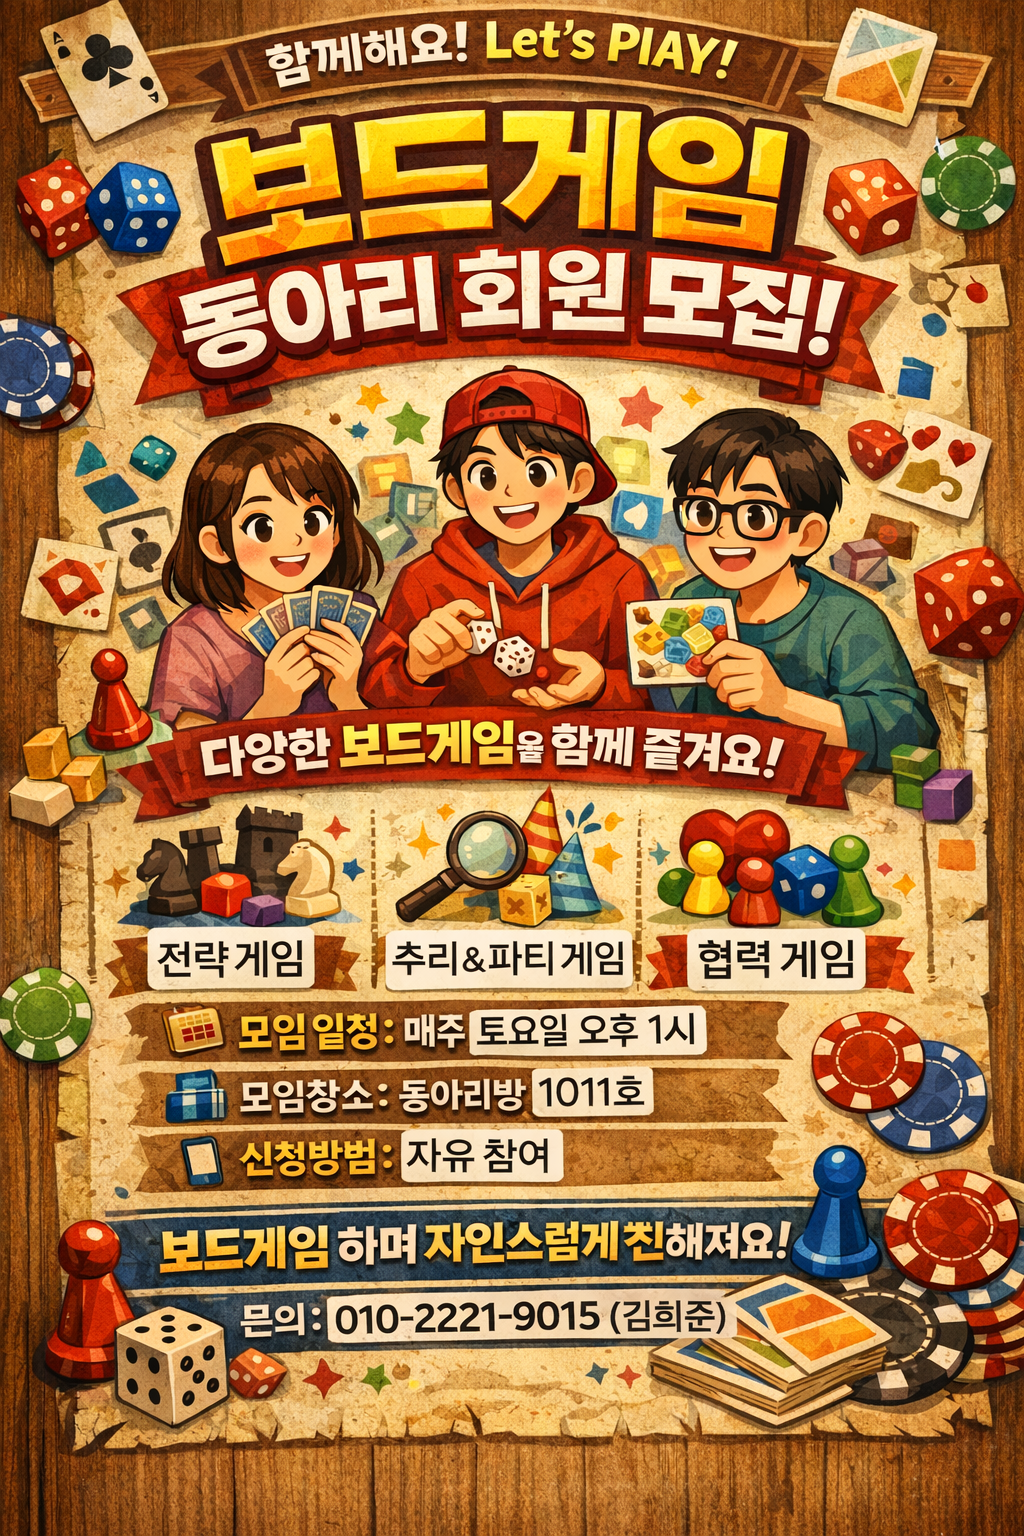
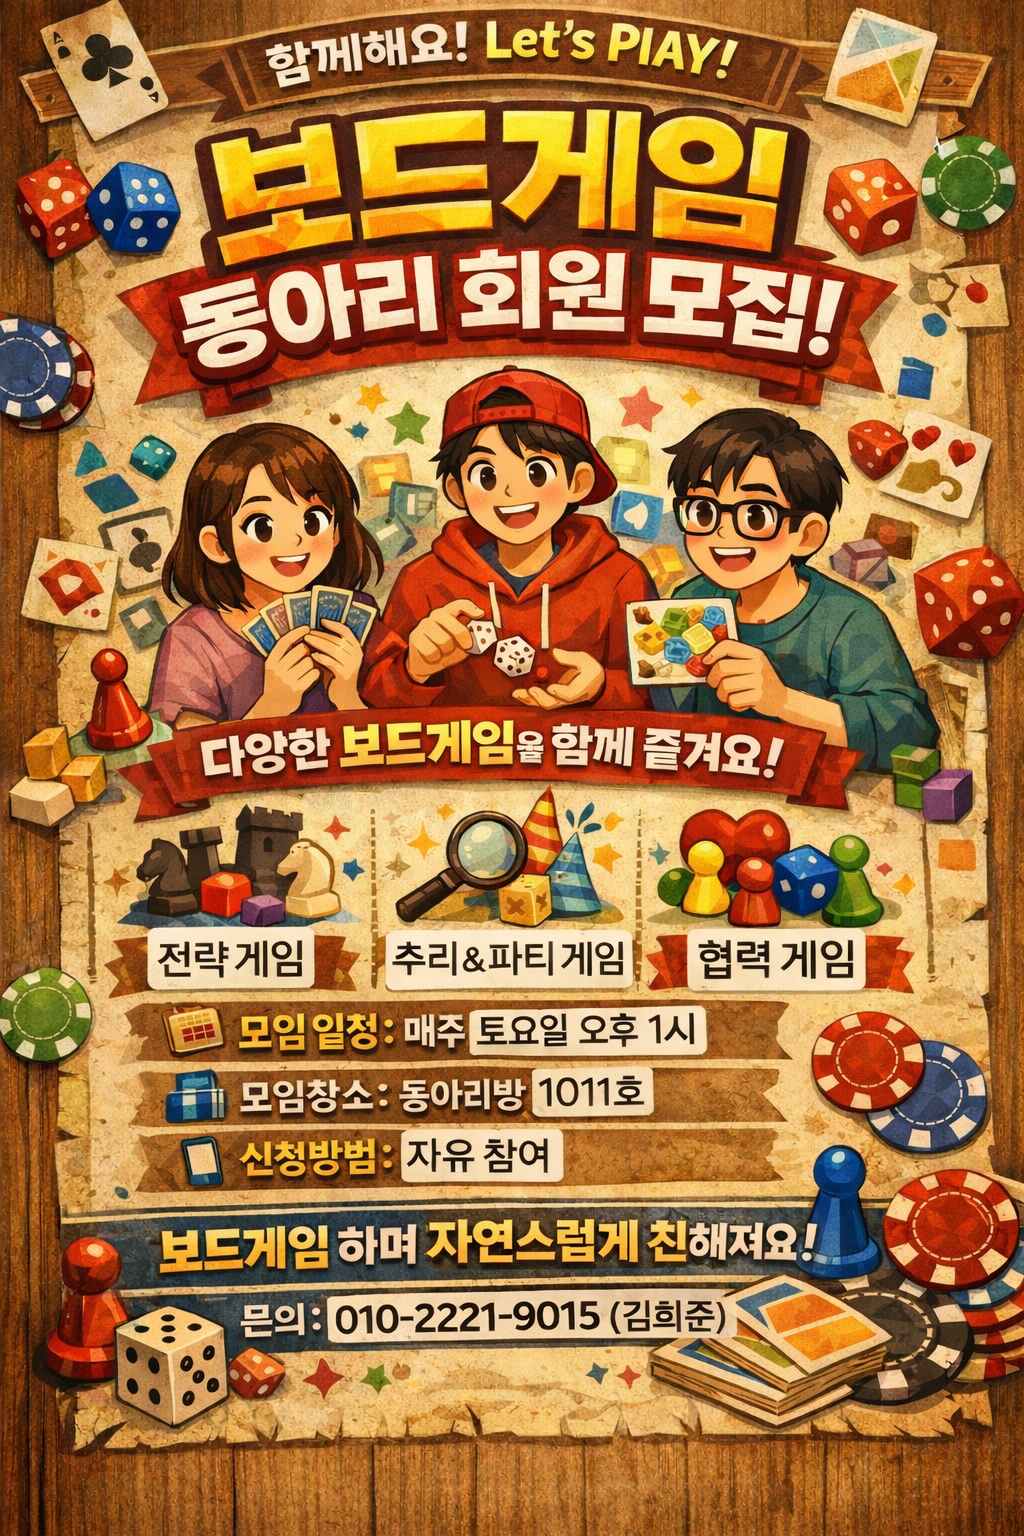
UI: 어두운 오버레이 주석처리, card 섹션 주석처리

diff --git a/index.html b/index.html
@@ -9,7 +9,7 @@
 <body>
   <!-- 배경(포스터) 위에 내용이 올라가는 구조 -->
   <div class="bg" aria-hidden="true"></div>
-
+  <!--
   <main class="wrap">
     <section class="card">
       <h2 class="card-title">모임 안내</h2>
@@ -28,6 +28,7 @@
       <small>© 우리랜드</small>
     </footer>
   </main>
+  -->
     <!-- ✅ 참여 신청 모달(처음엔 숨김) -->
   <div class="modal" id="joinModal" aria-hidden="true">
     <div class="modal-backdrop" id="modalBackdrop"></div>

diff --git a/css/style.css b/css/style.css
@@ -25,14 +25,14 @@ body {
   z-index: -2;
 }
 
-/* 가독성용 어두운 오버레이 */
+/* 가독성용 어두운 오버레이
 .bg::after {
   content: "";
   position: absolute;
   inset: 0;
-  background: rgba(0,0,0,0.35);     /* 필요하면 0.45로 올려도 됨 */
+  background: rgba(0,0,0,0.35);
   z-index: -1;
-}
+} */
 
 /* =========================
    콘텐츠 레이아웃
